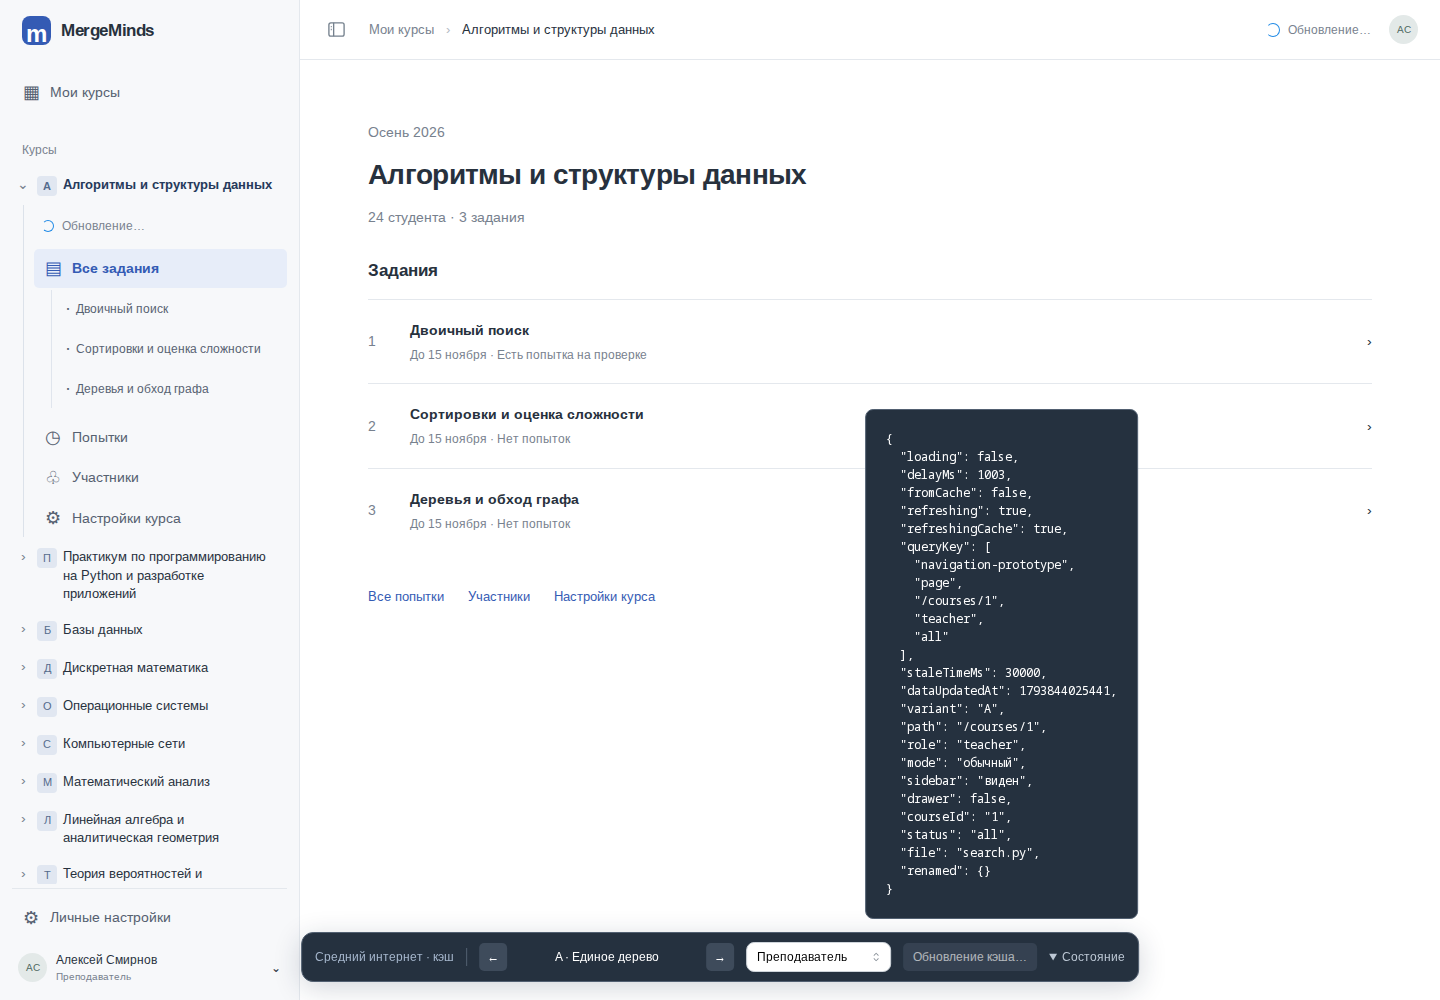
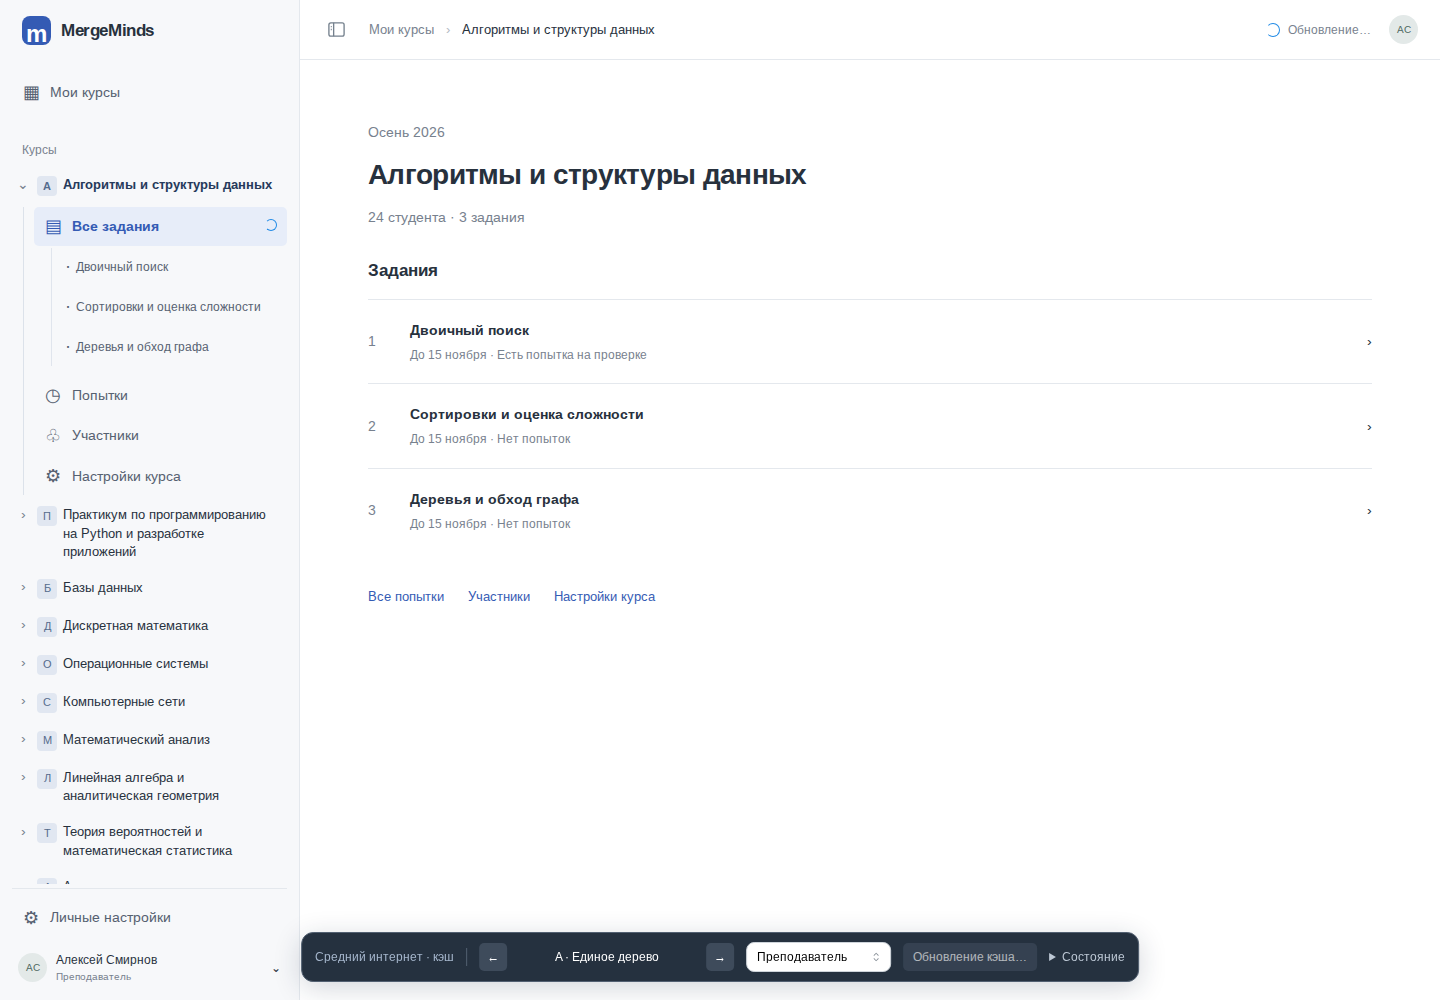
fix(prototype): убрать сдвиг ссылок при обновлении ветки

diff --git a/src/app/navigation-prototype/navigation-prototype.tsx b/src/app/navigation-prototype/navigation-prototype.tsx
@@ -249,10 +249,10 @@ function CourseTreeContent({
   return (
     <div className="np-course-content" data-fetching={query.isFetching}>
       {query.isFetching && (
-        <div className="np-tree-loading" role="status">
-          <Loader size={12} />
-          Обновление…
-        </div>
+        <span className="np-tree-refresh" role="status" title="Обновление раздела">
+          <Loader size={12} aria-hidden="true" />
+          <span className="np-sr-only">Обновление раздела</span>
+        </span>
       )}
       <CourseNavigation
         courseId={courseId}

diff --git a/src/app/navigation-prototype/navigation-prototype.css b/src/app/navigation-prototype/navigation-prototype.css
@@ -831,3 +831,27 @@
   cursor: progress;
   opacity: 0.65;
 }
+.np-course-content {
+  position: relative;
+}
+.np-course-content > .np-nav-item:first-of-type {
+  padding-right: 30px;
+}
+.np-tree-refresh {
+  position: absolute;
+  top: 12px;
+  right: 10px;
+  display: flex;
+  pointer-events: none;
+}
+.np-sr-only {
+  position: absolute;
+  width: 1px;
+  height: 1px;
+  margin: -1px;
+  padding: 0;
+  overflow: hidden;
+  clip-path: inset(50%);
+  white-space: nowrap;
+  border: 0;
+}

diff --git a/docs/prototypes/navigation/README.md b/docs/prototypes/navigation/README.md
@@ -41,7 +41,7 @@
 
 В варианте A у каждого курса есть стрелка раскрытия: она открывает или сворачивает меню без перехода на страницу курса. Внутри — «Все задания», прямые ссылки на задания, попытки, участники и настройки. Название курса по-прежнему открывает его страницу. Можно раскрыть несколько курсов и перейти к заданию другого курса напрямую. Активное задание выделено; при переходе по URL текущий курс раскрывается автоматически.
 
-То же дерево доступно в панели за кнопкой на diff и на мобильном экране. Содержимое раскрытого курса загружается отдельным моковым запросом TanStack Query с задержкой 0,7–1,6 секунды. До ответа внутри курса показано «Загрузка раздела…», стрелка позволяет свернуть его и во время ожидания. Задания рисуются из результата запроса. Свежий кэш (30 секунд, хранение 5 минут) открывается сразу; устаревшие данные остаются доступны при фоновом обновлении. Ключ включает ID курса и роль. Основной сайдбар и меню за кнопкой используют общий кэш. Сворачивание не отменяет запрос: ответ остаётся в кэше. Переходы на страницы используют отдельные задержки и кэш. [Ожидание содержимого ветки](tree-loading.png). [Задания в сайдбаре](sidebar-tasks.png).
+То же дерево доступно в панели за кнопкой на diff и на мобильном экране. Содержимое раскрытого курса загружается отдельным моковым запросом TanStack Query с задержкой 0,7–1,6 секунды. До ответа внутри курса показано «Загрузка раздела…», стрелка позволяет свернуть его и во время ожидания. Задания рисуются из результата запроса. Свежий кэш (30 секунд, хранение 5 минут) открывается сразу; устаревшие данные остаются доступны при фоновом обновлении. Маленький спиннер справа в строке «Все задания» показывает обновление без изменения высоты ветки и положения ссылок. Ключ включает ID курса и роль. Основной сайдбар и меню за кнопкой используют общий кэш. Сворачивание не отменяет запрос: ответ остаётся в кэше. Переходы на страницы используют отдельные задержки и кэш. [Ожидание содержимого ветки](tree-loading.png). [Задания в сайдбаре](sidebar-tasks.png).
 
 ## Что попробовать
 
